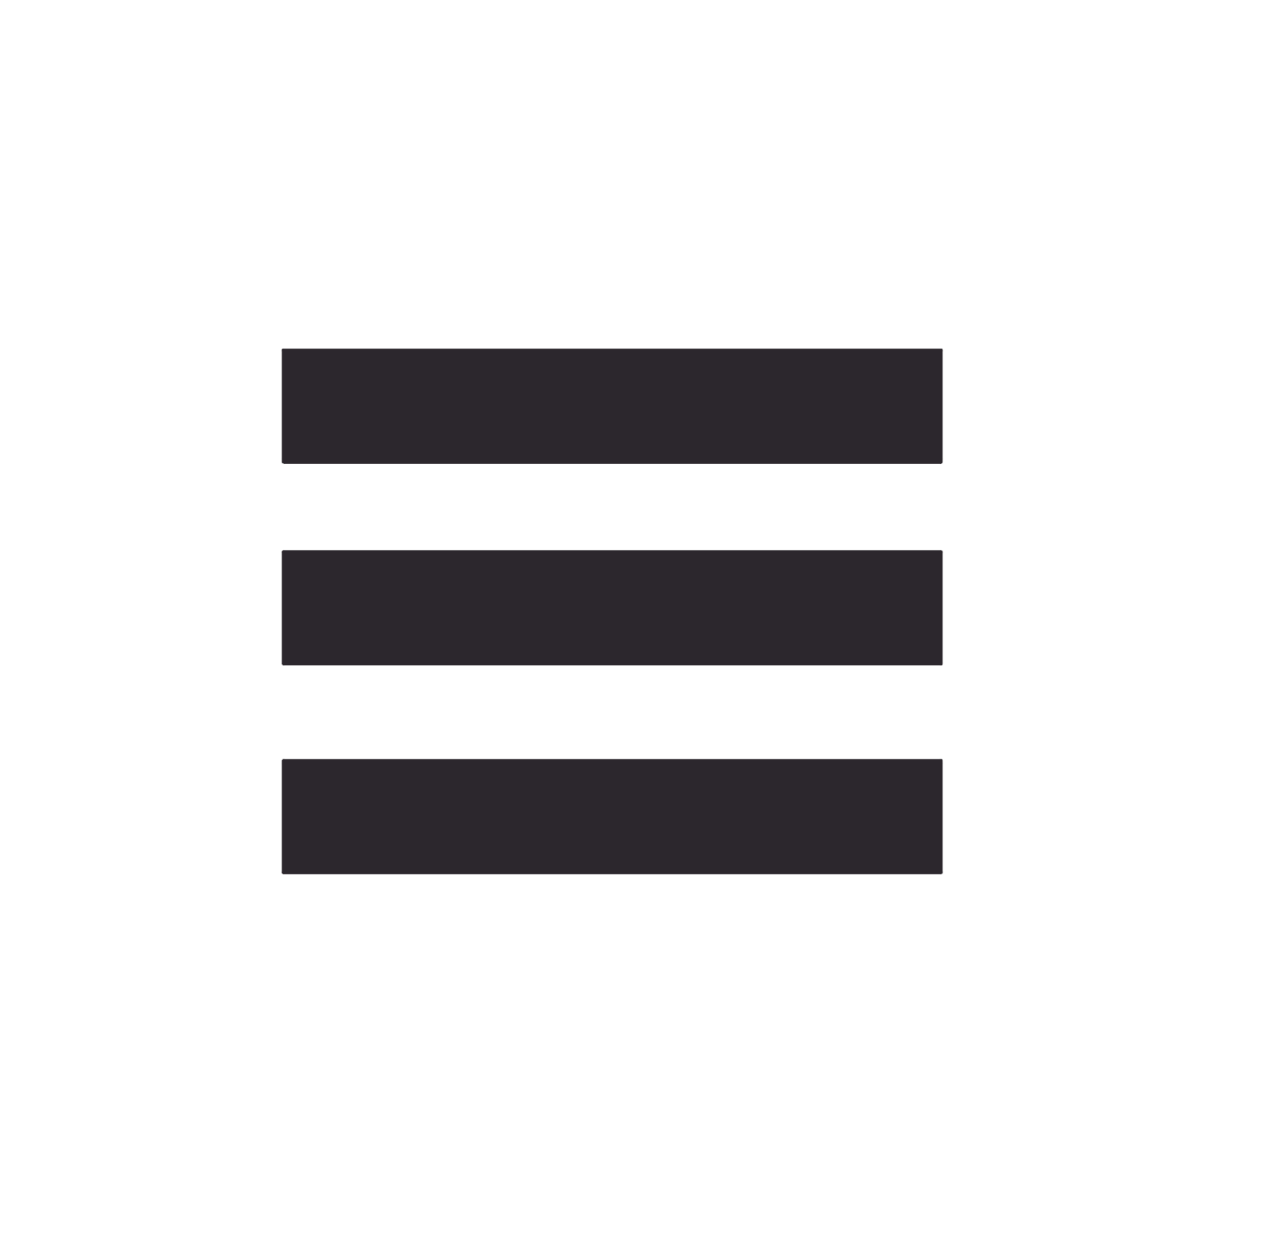
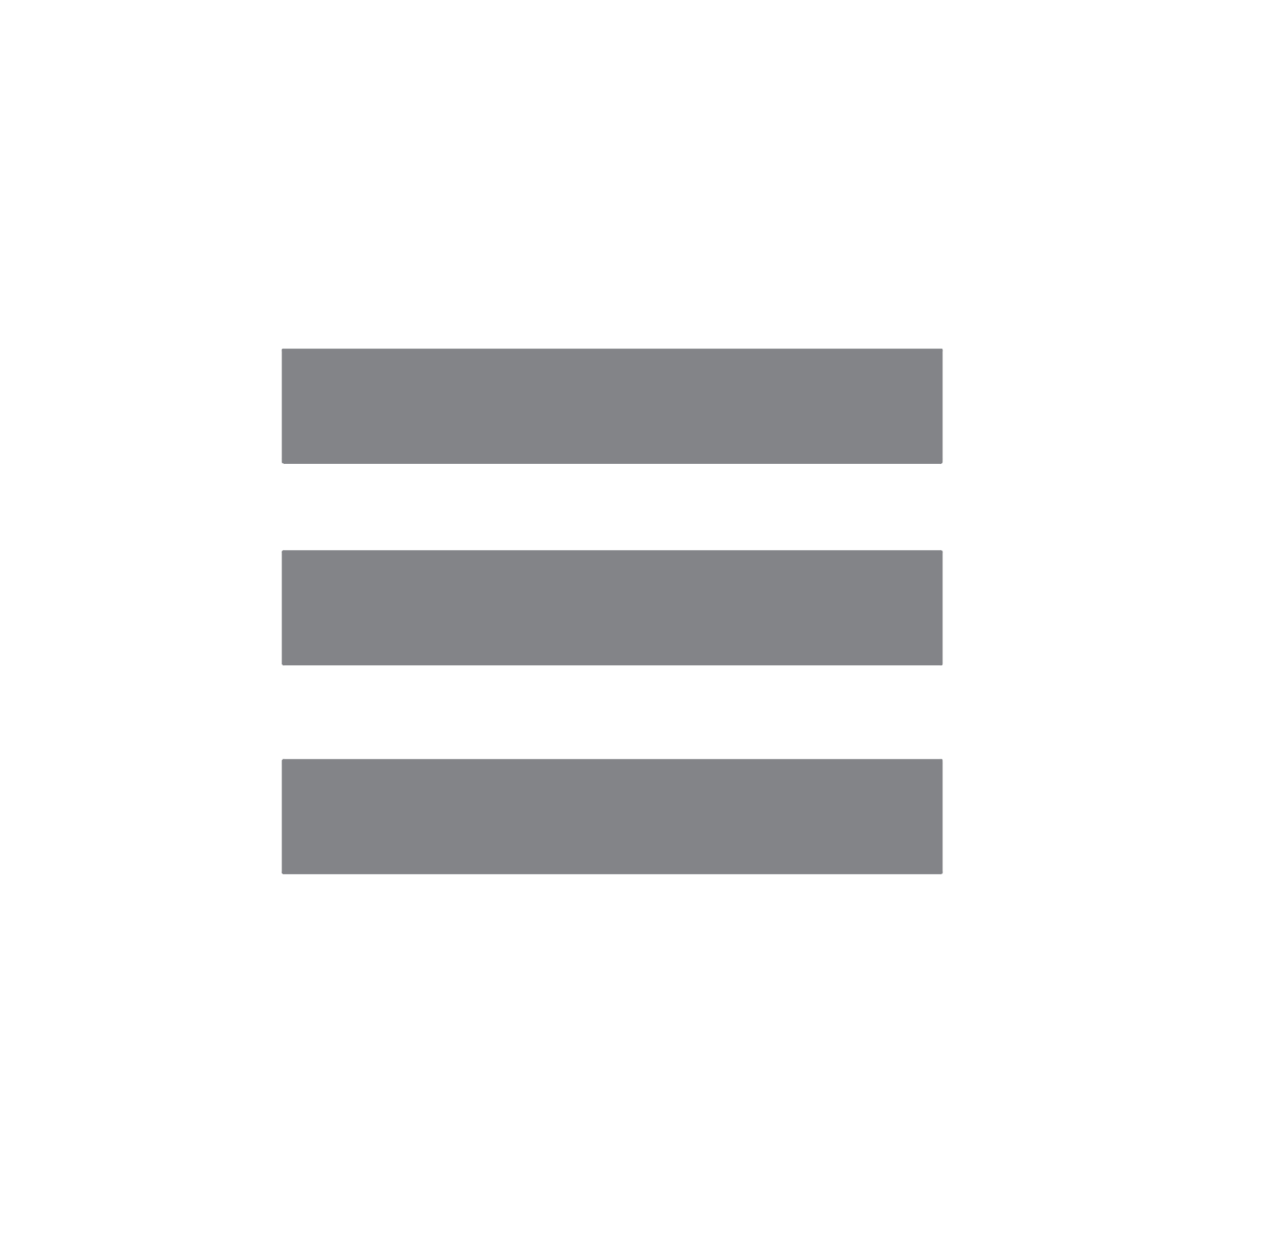
calming

Changed region(s): [[0.2163, 0.2767, 0.7726, 0.3997], [0.2163, 0.4304, 0.7726, 0.5534], [0.2163, 0.6149, 0.7726, 0.7071]]

diff --git a/angular-forage3.0/main.css b/angular-forage3.0/main.css
@@ -6,10 +6,10 @@ body {
     background-color: #faf7f2;
 }
 
-.body2 {background-color: #eaf1eb; width: 100%;}
+.body2 {background-color: #eaefea; width: 100%;}
 
 
-.body3 {background-color: #2c272d; width: 100%;}
+.body3 {background-color: #46454d; width: 100%;}
 
 
 
@@ -38,7 +38,7 @@ body {
 
 h1       {font-size: 100px; 
           font-family: aron;
-          color: #2c272d;
+          color: #46454d;
           
           }
 
@@ -55,7 +55,7 @@ p {
     font-size: 12px;
 
     text-align: left;
-    color: #2c272d;
+    color: #46454d;
     font-family: min;
     width: 90%;
     font-weight: normal;
@@ -226,7 +226,7 @@ left: 35%;
   position: absolute;
   top: -210%;
   left: 80px;
-  color: #2c272d;
+  color: #46454d;
   font-weight: 800;
   font-size: 40px;
   z-index: 99;
@@ -328,21 +328,34 @@ left: 35%;
 
 #header {
     
-    height: 200px;
+    height: 170px;
+
+}
+
+#header-position {
+
+    position: fixed;
 }
 
 
-.title-main1 { position: absolute; top: 90px; left: 5%; color: #2c272d; text-align: center;}
+.title-main1 { position: absolute;
+    top: 69px;
+    left: 5%;
+    color: #838488;
+    text-align: center;
+     font-size: 40px;}
 
 
 /*Hamburger*/
 
-.hamburger {width: 10%;
+.hamburger {    width: 7%;
     position: absolute;
-    top: 65px;
-    right: 50px;}
+    top: 54px;
+    right: 50px;
+    z-index: 9;
+}
 
-.hamburger2 {width: 10%;
+.hamburger2 {width: 7%;
     position: absolute;
     top: 65px;
     left: 50px;}
@@ -355,7 +368,7 @@ left: 35%;
 /*Menu*/
 
 
-.menu-text {font-size: 20px; line-height: 60px; color: #faf7f2; position: relative; left: 50px; }
+.menu-text {line-height: 60px; color: #faf7f2; position: relative; left: 50px; }
 .menu-title {color: #f0e1ce!important;  position: relative; left: 50px;} 
 
 
@@ -370,6 +383,7 @@ left: 35%;
 
 /* Timeline */
 
+.pattern {position: fixed; z-index: ; width: 100%; height: 100%;}
 
 
 
@@ -382,64 +396,76 @@ left: 35%;
 
 .add-cookbook {
     position: relative;
-    width: 12%;
-    padding-top: 100px;
-    left: 45%;
-    padding-bottom: 100px;
+    width: 10%;
+    left: 40%;
+    top: -100px;
+ 
 }
 
 
 .share-rec {
-    position: relative;
-    width: 12%;
-    padding-top: 100px;
-    right: 45%;
-    padding-bottom: 100px;
+   position: relative;
+    width: 10%;
+    right: 40%;
+    top: -100px;
+ 
+ 
 }
+
 
 
 .title-dish {
-    
-    color: #5f7278;
+
+color: #838488;
     position: relative;
     max-width: 90%;
-    text-align: left;
+    text-align: center;
     line-height: 80px;
-    font-size: 40px;
+    font-size: 20px;
     text-transform: capitalize;
 }
-
-
 
 
 .description {
     font-size: 12px;
     position: relative;
     text-align: left;
-    color: #2c272d;
+    color: #46454d;
     font-family: min;
     width: 90%;
     font-weight: normal;
     text-transform: capitalize;
 }
 
+.description2 {
+    font-size: 12px;
+    position: relative;
+    text-align: left;
+    color: #46454d;
+    font-family: min;
+    width: 90%;
+    font-weight: normal;
+    text-transform: capitalize;
+    font-style: italic;
+}
 
 
 
 .mushroom-rating{
     position: relative;
-    width: 25%;
+    width: 15%;
     left: 35%;
+    top: 15px;
 
 }
 
 
 .timeline-line{
-    position: relative;
+ 
     width: 100%;
-    height: 10px;
-    background-color: #5f7278;
-    top: -15px;
+    height: 5px;
+    background-color: #838488;
+   
 
 }
 
@@ -448,7 +474,13 @@ left: 35%;
 
 
 
+.rec-timeline:nth-child(even) {
+    background:  #eaefea;
+}
 
+.rec-timeline:nth-child(odd) {
+    background:#faf7f2;
+}
 
 
 

diff --git a/angular-forage3.0/templates/cookies.html b/angular-forage3.0/templates/cookies.html
@@ -1,11 +1,22 @@
- 
+
 
 <div class="cookies-page body2">
-	<ng-include src="'./templates/headerBar.html'"></ng-include>
 
-	<div ng-repeat="recepie in allRecipes">
+
+<img class="pattern"src="./img/linin.png">
+
+
+	<div class="header-position"> <ng-include src="'./templates/headerBar.html'"></ng-include></div>
+
+
+
+
+
+
+	<div ng-repeat="recepie in allRecipes" class="rec-timeline">
 			<center>
-<center>
+
+				<br><br>
 					<h2 class="title-dish">{{ recepie.name }}</h2>
 
 
@@ -15,11 +26,11 @@
 
 			<img class="add-cookbook" src="./img/add2.png">
 			<img class="share-rec" src="./img/share2.png">
-<br><br><br><br><br><br>
-<br><br><br><br>
+<br><br><br><br><br><br><br><br><br><br><br><br><br><br>
 
+					<p class="description2">Description:</p><br><br>
 					<p class="description">{{ recepie.ingredients }}</p>
-				<br><br><br><br><br><br><br><br><br>
+				<br><br><br><br><br><br><br><br><br><br><br>
 
 
 				<img class="mushroom-rating" src="./logo/shoom4.png" >
@@ -31,7 +42,6 @@
 
 
 
-				<br><br><br><br><br>
 				</center>
 
 				

diff --git a/angular-forage3.0/tools.html b/angular-forage3.0/tools.html
@@ -4,7 +4,7 @@
 
 <head>  
 
-  <link href="main.css" rel="stylesheet">
+<link href="main.css" rel="stylesheet">
 <title>Forage</title>
 
 
@@ -24,7 +24,7 @@
 
 <br><br><br><br>
 
-<h2 class="menu-title">Recipe</h2 class="menu-title">
+<h2 class="menu-title">Recipe</h2 >
 <p class="menu-text">
 Add Recipe<br></a>
 Most Popular Dishes<br>
@@ -35,7 +35,7 @@ Search User
 
 
 
-<h2 class="menu-title">Profile</h2 class="menu-title">
+<h2 class="menu-title">Profile</h2>
 <p class="menu-text">
 
 My Cookbook<br>
@@ -46,7 +46,7 @@ Report User
 <br><br>
 
 
-<h2 class="menu-title">Forage</h2 class="menu-title">
+<h2 class="menu-title">Forage</h2 >
 <p class="menu-text">
 
 About<br>
@@ -57,13 +57,6 @@ Log Out
 
 
 </body>
-
-
-<script>
-
-
-
-  </script>
 
 
 

diff --git a/angular-forage3.0/templates/headerBar.html b/angular-forage3.0/templates/headerBar.html
@@ -15,7 +15,7 @@
 
 
 <div id="contence">
-<br>
-</div>
 
+</div>
+<div class="timeline-line"></div>
 <div class="block"></div>
